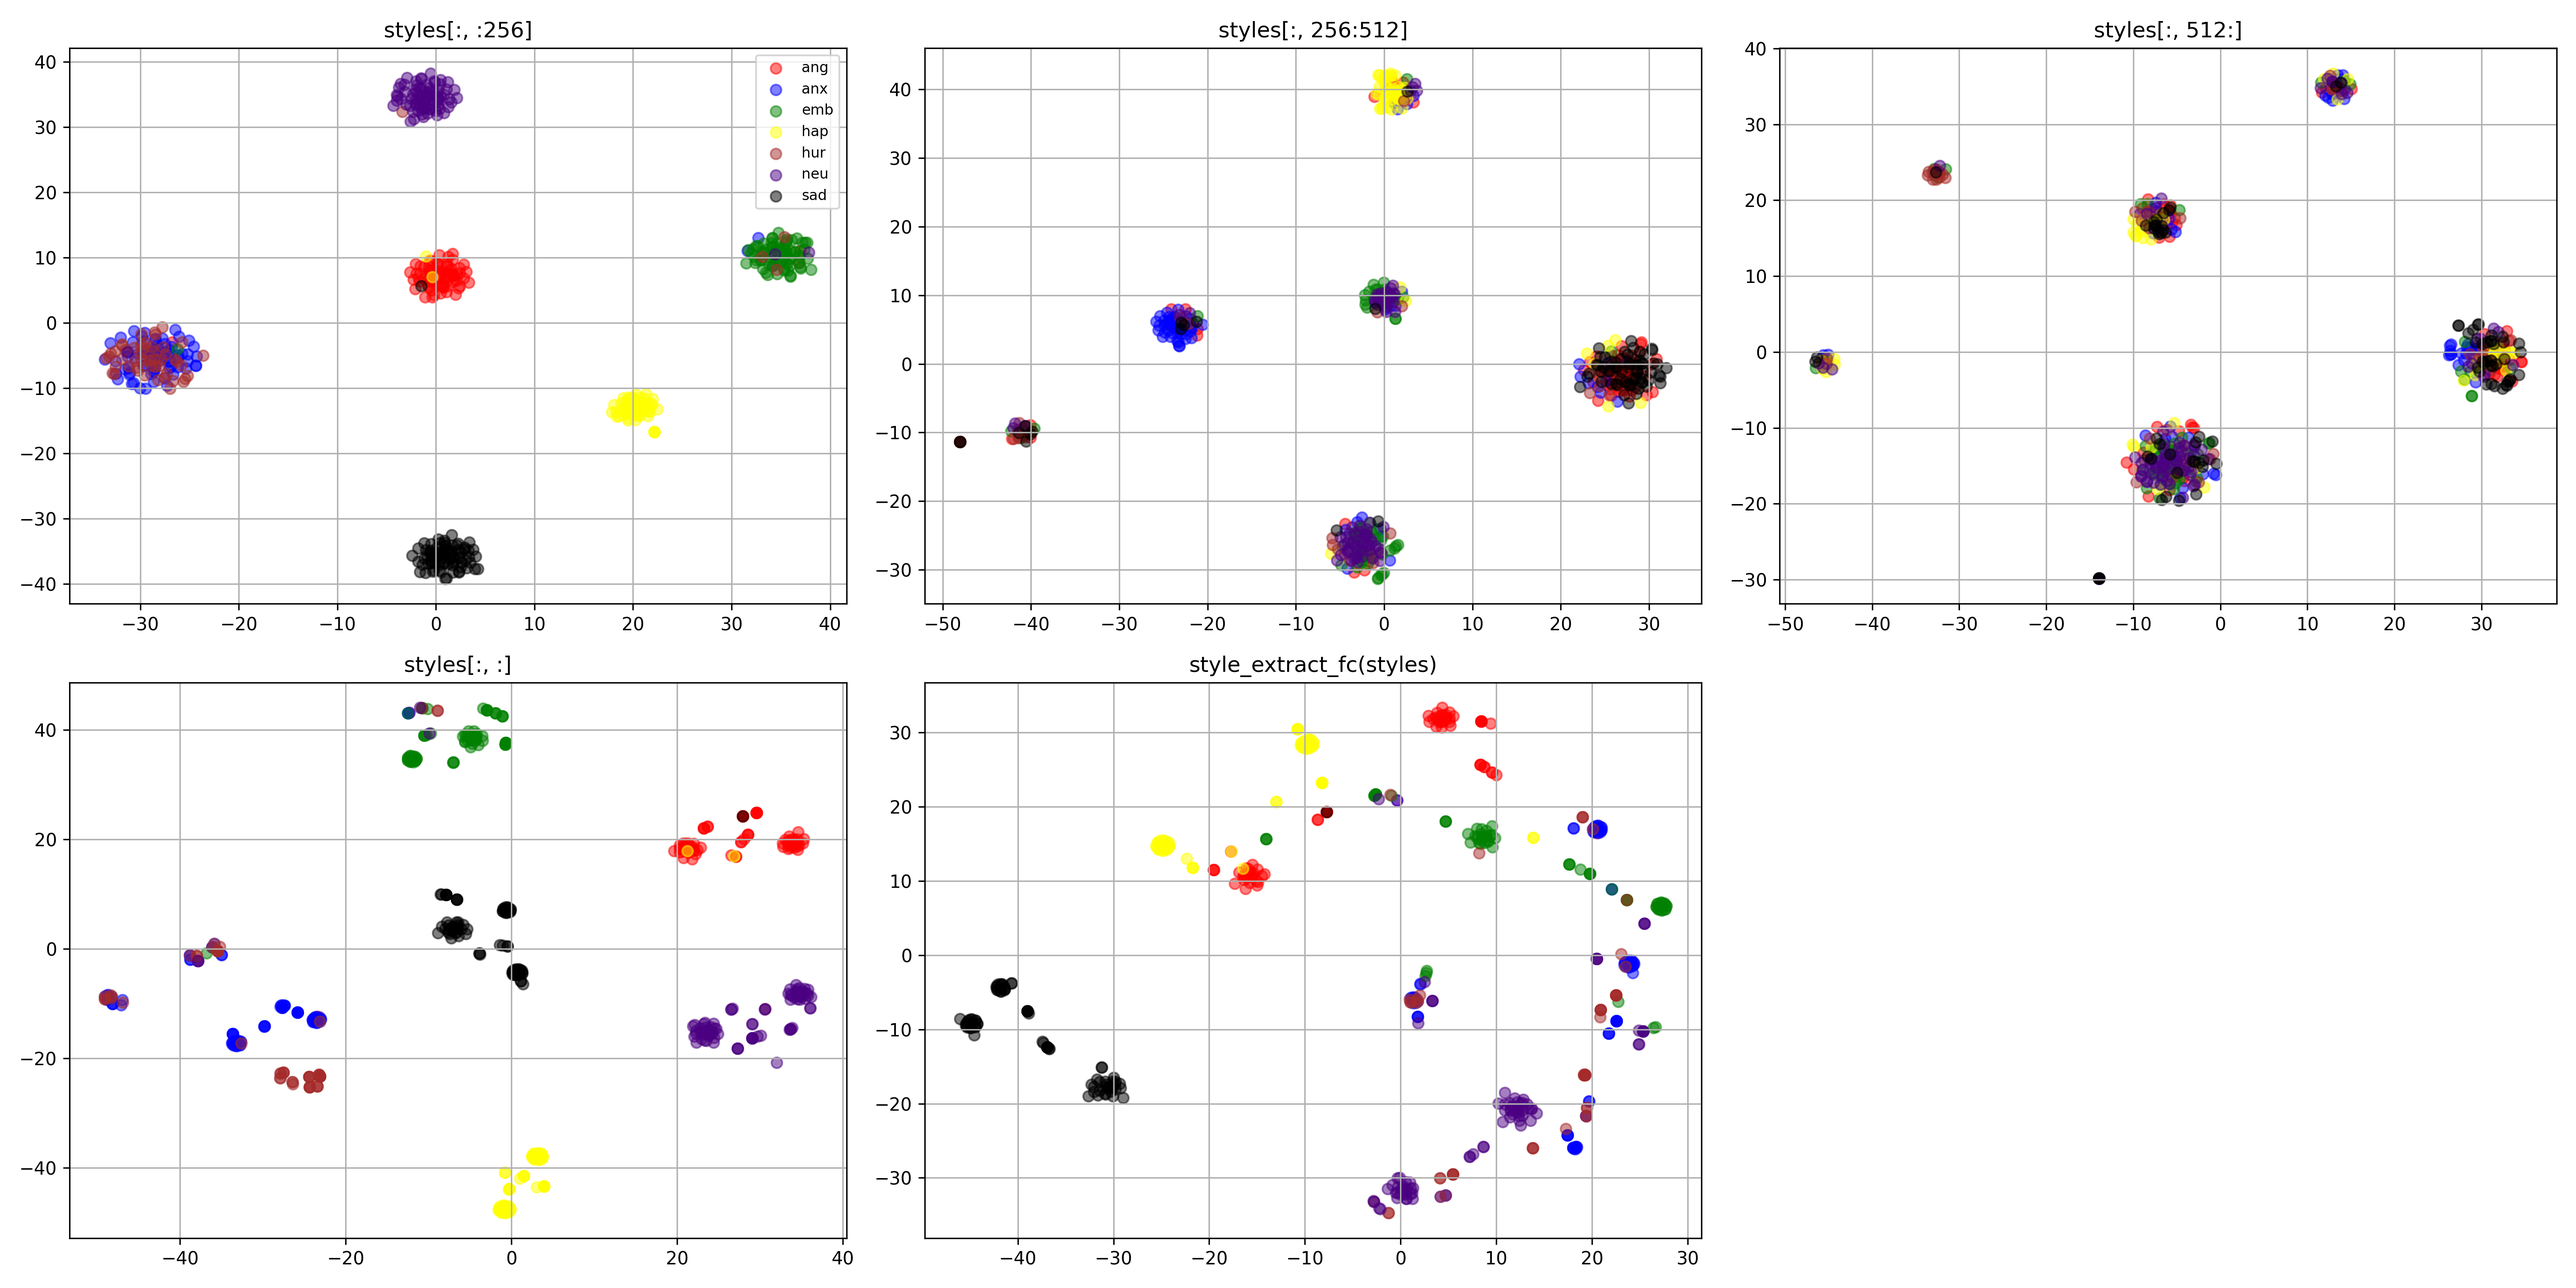
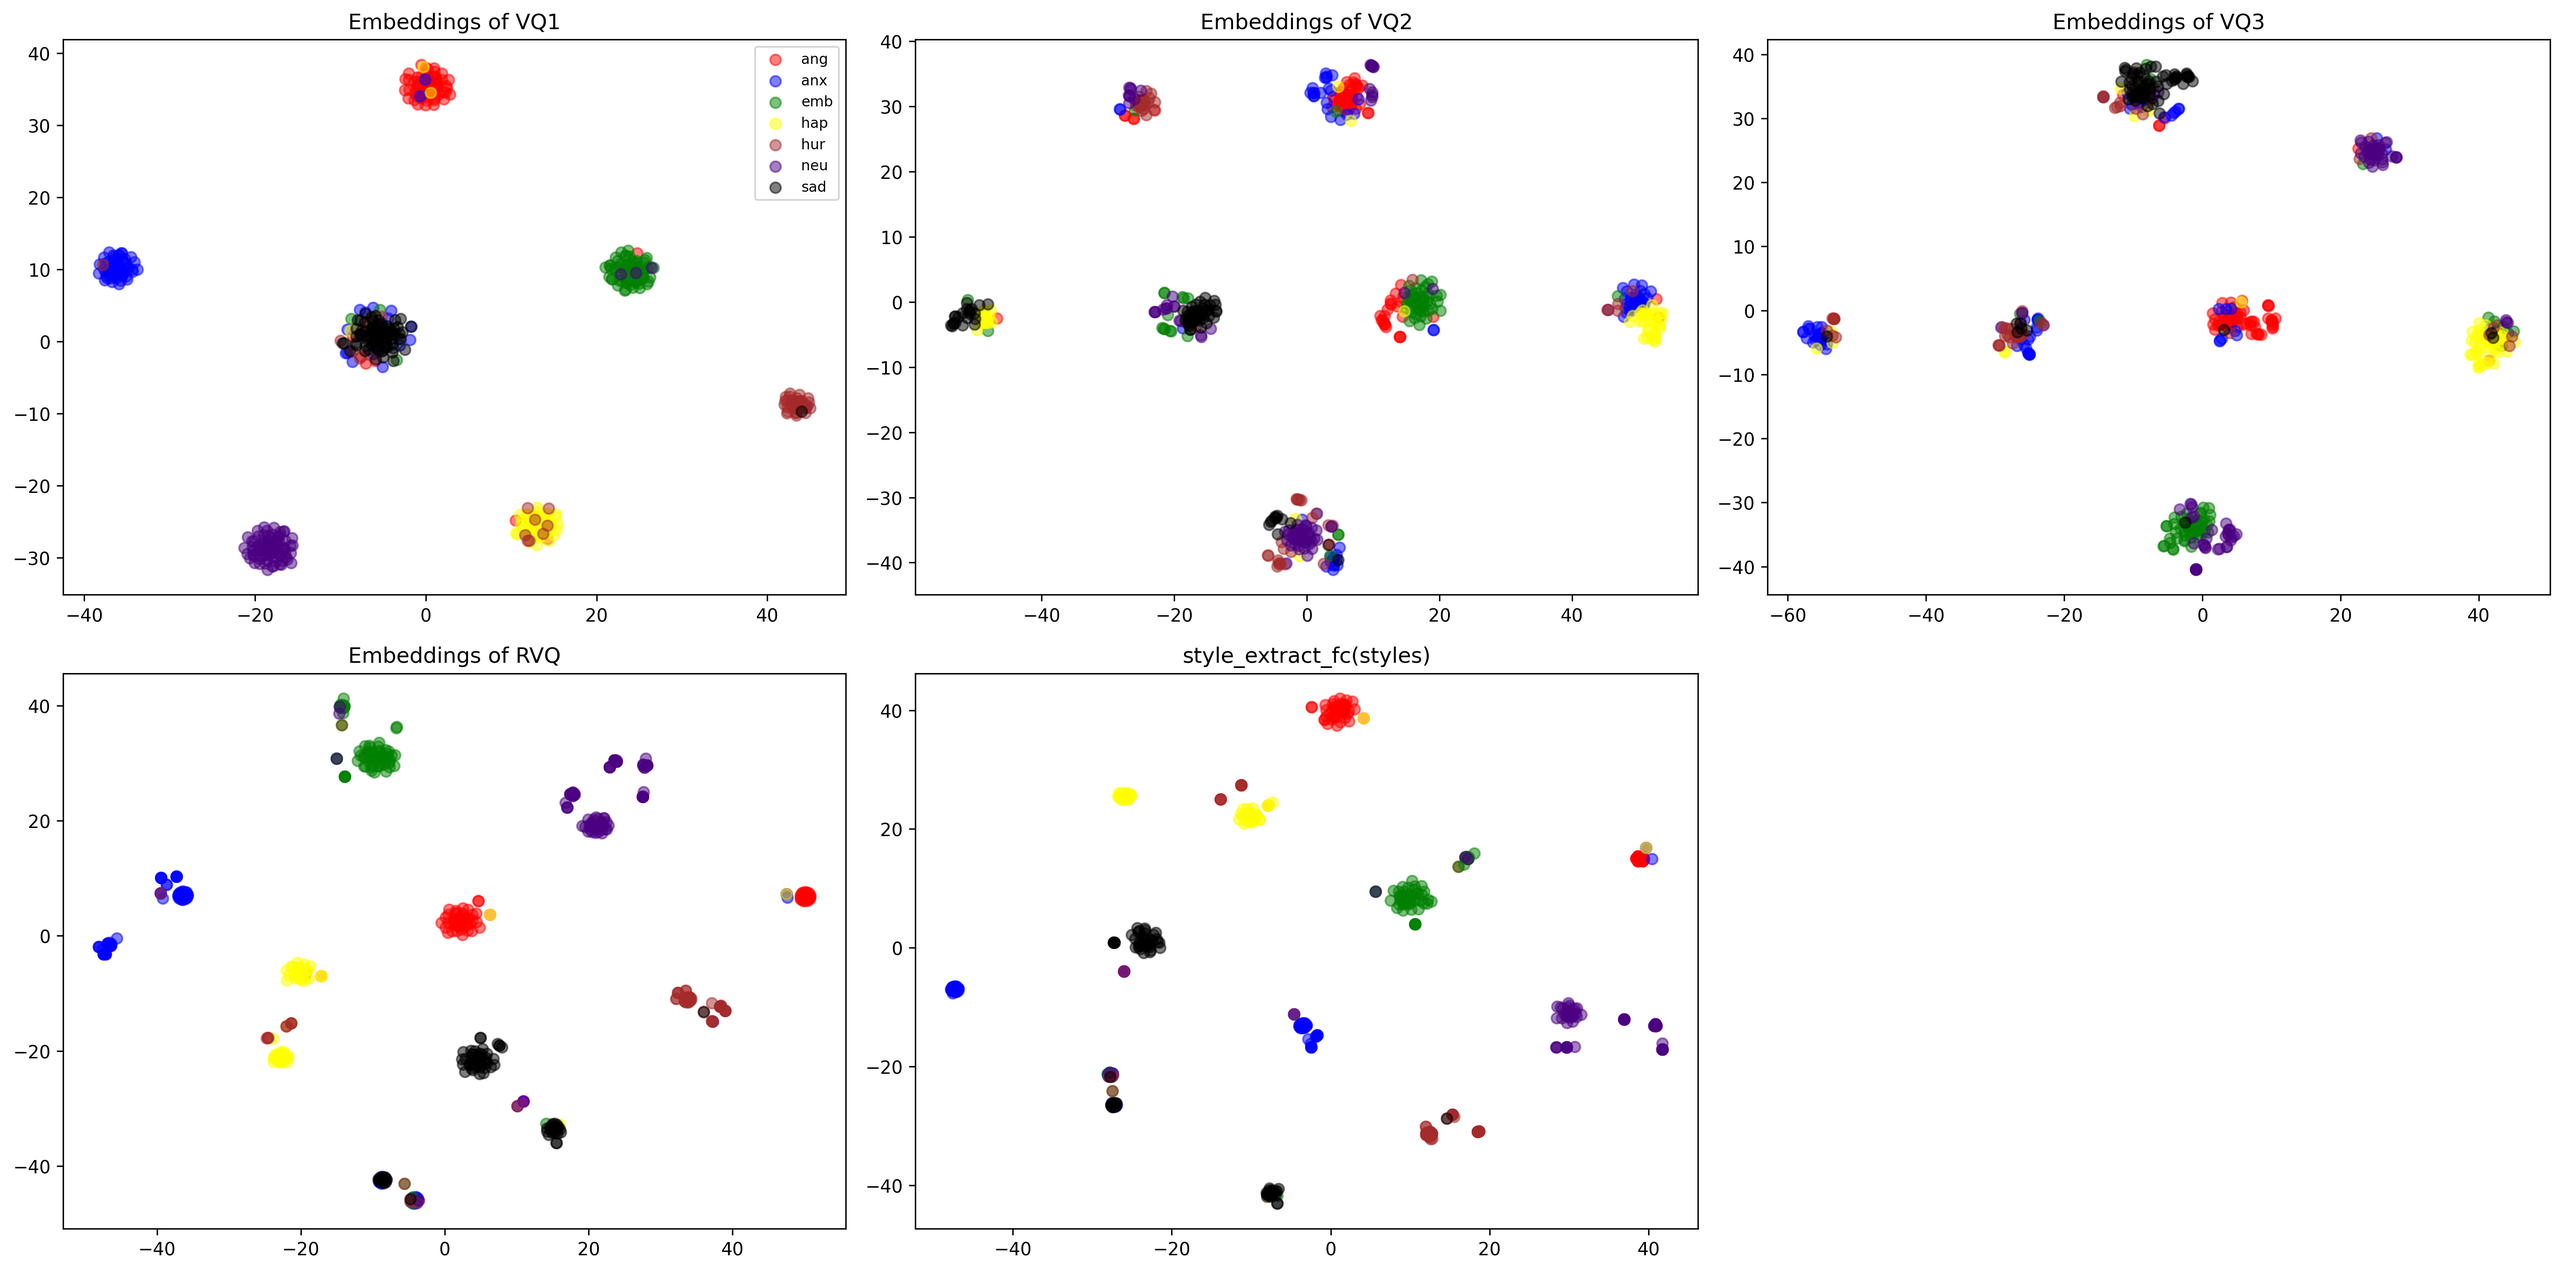
visualize

diff --git a/visualize.py b/visualize.py
@@ -120,7 +120,6 @@ if __name__ == "__main__":
     tsne_4 = run_tsne(data_x_4)
     tsne_5 = run_tsne(data_x_5)
 
-
     # 2x4 서브플롯 생성 (7개 쓰고, 1개는 비우는 형태)
     fig, axes = plt.subplots(2, 3, figsize=(20, 10))
 
@@ -128,20 +127,20 @@ if __name__ == "__main__":
     def scatter_tsne(ax, tsne_data, data_y, title):
         if tsne_data is None:
             ax.set_title(f"{title} - Not Available")
-            ax.grid(True)
+            ax.grid(False)  # 격자무늬 없애기
             return
         for i, (c, label) in enumerate(zip(colors, labels)):
-            ax.scatter(tsne_data[data_y==i, 0],
-                       tsne_data[data_y==i, 1],
+            ax.scatter(tsne_data[data_y == i, 0],
+                       tsne_data[data_y == i, 1],
                        c=c, label=label, alpha=0.5)
         ax.set_title(title)
-        ax.grid(True)
+        ax.grid(False)  # 격자무늬 없애기
 
     # 각 subplot에 그리기
-    scatter_tsne(axes[0, 0], tsne_1, emotions, "styles[:, :256]")
-    scatter_tsne(axes[0, 1], tsne_2, emotions, "styles[:, 256:512]")
-    scatter_tsne(axes[0, 2], tsne_3, emotions, "styles[:, 512:]")
-    scatter_tsne(axes[1, 0], tsne_4, emotions, "styles[:, :]")
+    scatter_tsne(axes[0, 0], tsne_1, emotions, "Embeddings of VQ1")
+    scatter_tsne(axes[0, 1], tsne_2, emotions, "Embeddings of VQ2")
+    scatter_tsne(axes[0, 2], tsne_3, emotions, "Embeddings of VQ3")
+    scatter_tsne(axes[1, 0], tsne_4, emotions, "Embeddings of RVQ")
     scatter_tsne(axes[1, 1], tsne_5, emotions, "style_extract_fc(styles)")
 
     # 마지막 subplot은 비어있음
@@ -151,7 +150,7 @@ if __name__ == "__main__":
     axes[0, 0].legend(loc='best', fontsize=8)
 
     plt.tight_layout()
-    plt.savefig('fig.png', dpi=300)
+    plt.savefig('fig.png', dpi=300, bbox_inches='tight')  # 깔끔한 여백을 위한 bbox_inches='tight'
     plt.close()
 
 
